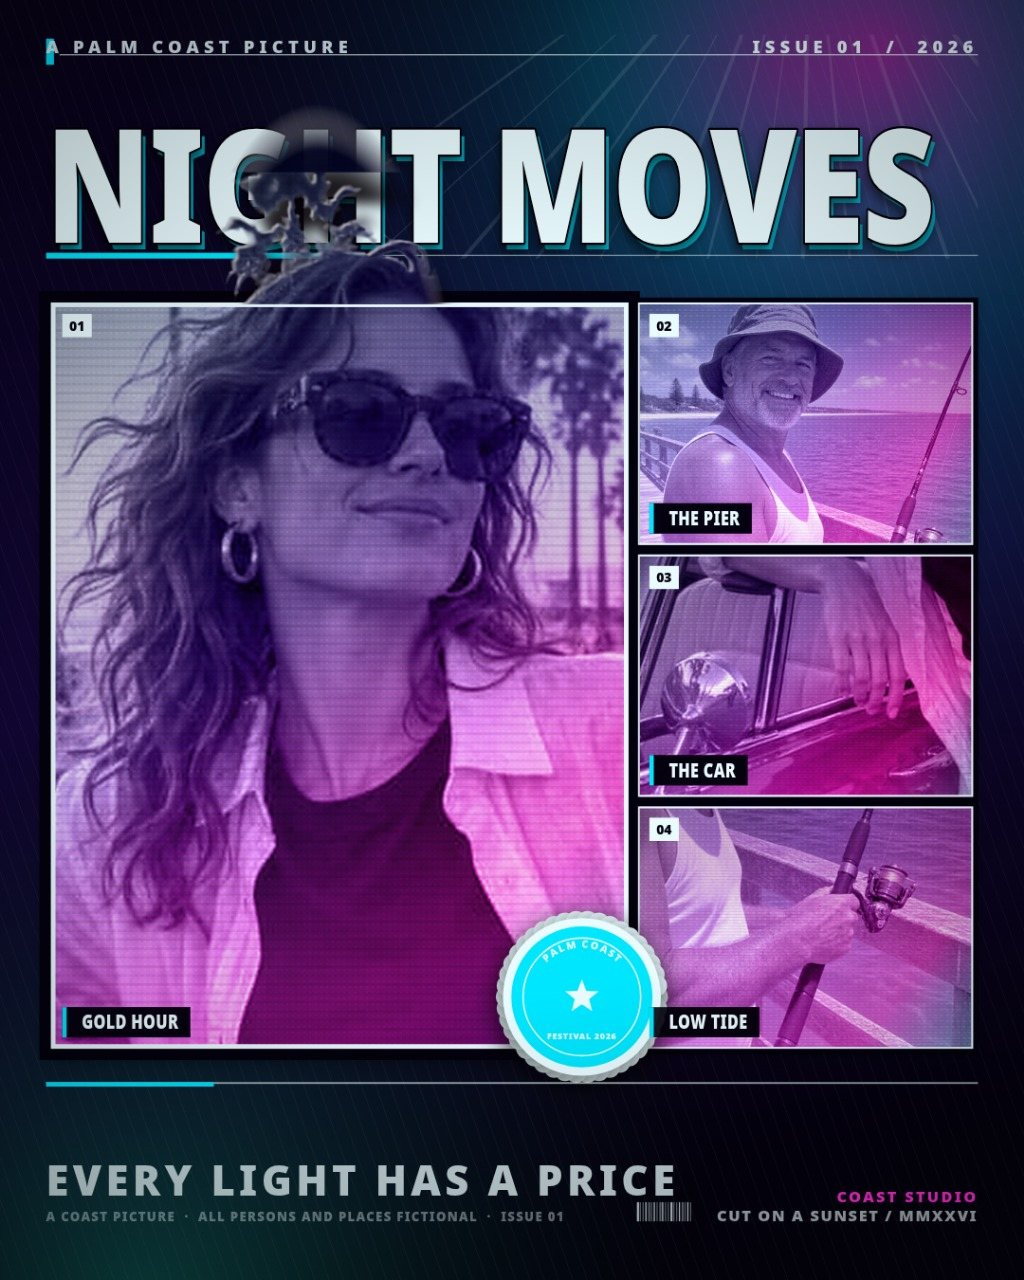
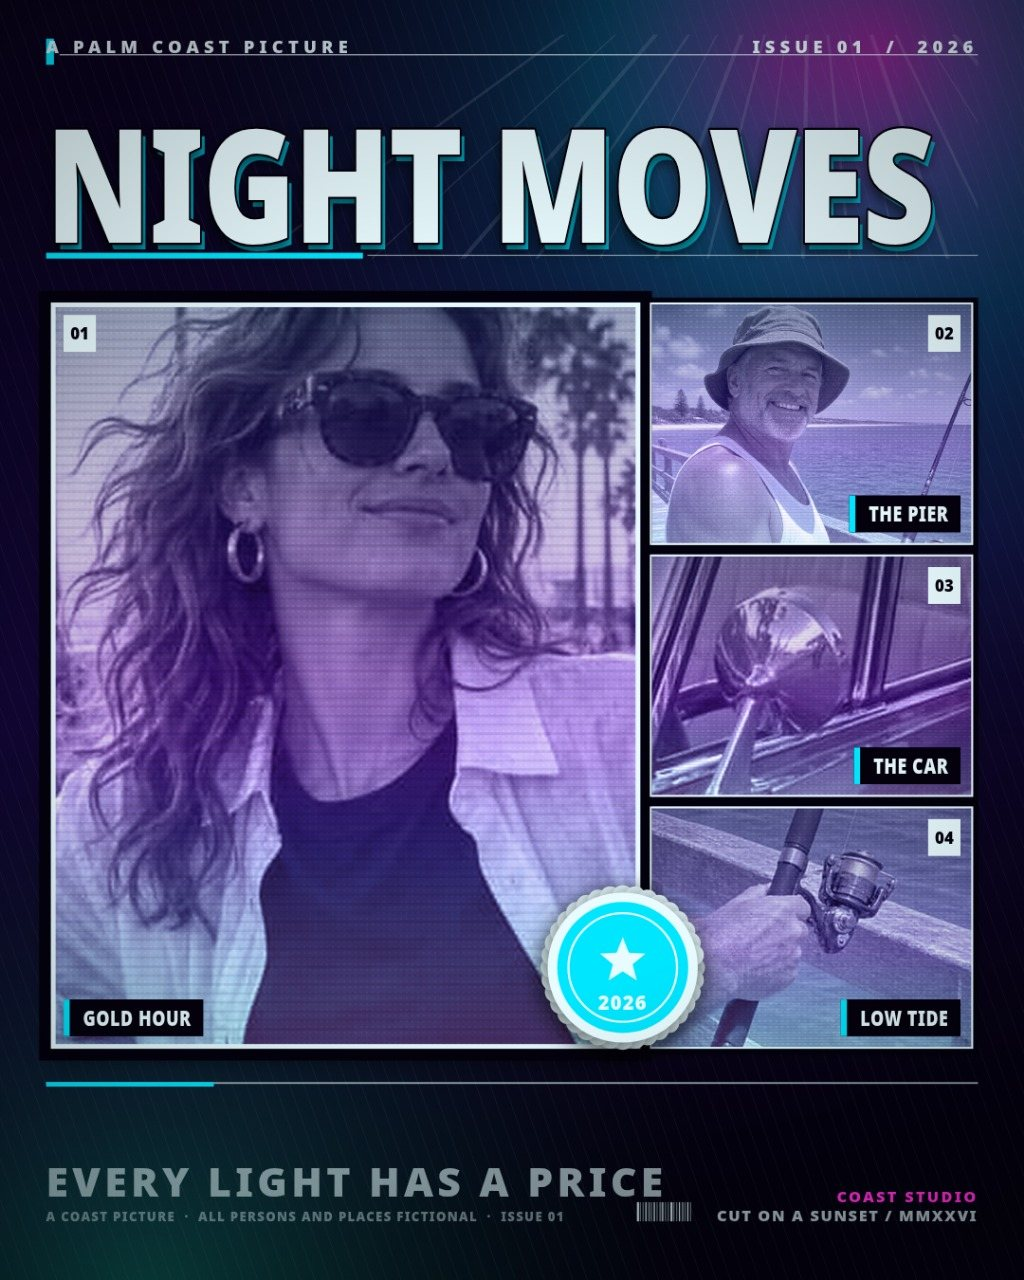
Make the cover read at judge scale
Six changes, all measured on a 768x480 downscale rather than at full size:

- drop the hero cut-out from over the wordmark: the type is unobstructed
- one grade: every panel gets the same vertical duotone ramp, and one
  color pass plus a very light sheet gradient re-asserts it over the grid
- the hero's right column is sized from its row height, so the three
  cells are near 4:3 instead of letterbox strips on a wide sheet (and
  near 4:3 on a portrait one too); crops re-picked to hold a whole head
  or a whole object
- the seal sits on the one long gutter at the hero's bottom-right corner,
  sized from the cell it sits between so it cannot be clipped, with a
  bold star and one short line instead of arc text
- labels: solid ink bars, one height, one inset, and a size capped by the
  panel so a narrow cell is not all chip; number tab moved to the same
  corner as its caption bar
- tagline demoted to one tracked line at 26% of the wordmark's cap height
  in muted cream, directly above the credits

frame-check: every panel holds a whole subject, no face is cut.
text-check: tagline at 25-26% of the wordmark cap on every shot.

diff --git a/app/src/render.js b/app/src/render.js
@@ -112,7 +112,18 @@ export function panelRects(state, W, H) {
     return { area, gutter: g, panels: cards, tilt: true };
   }
 
-  const panels = layout.cells.map(([cx, cy, cw, ch]) => ({
+  // The hero's right column is three panels stacked in one column, so their height is fixed by the grid and only
+  // their width is free. Taking the width from the height holds each of them near 4:3 instead of letting the
+  // sheet's own aspect squash them into letterbox strips on a wide post and tall slivers on a portrait one.
+  let cells = layout.cells;
+  if (state.layout === 'hero') {
+    const rowH = area.h / 3 - g;
+    const colW = clamp(rowH * (4 / 3) + g, area.w * 0.085, area.w * 0.45);
+    const f = colW / area.w;
+    cells = [[0, 0, 1 - f, 1], [1 - f, 0, f, 1 / 3], [1 - f, 1 / 3, f, 1 / 3], [1 - f, 2 / 3, f, 1 / 3]];
+  }
+
+  const panels = cells.map(([cx, cy, cw, ch]) => ({
     x: area.x + cx * area.w + g / 2,
     y: area.y + cy * area.h + g / 2,
     w: cw * area.w - g,
@@ -152,19 +163,20 @@ export function drawCover(canvas, state, opts = {}) {
   if (layout.tilt) paintTiltBackdrop(ctx, geo.area, state, pal, geo);
   drawPanels(ctx, geo, state, pal, Math.min(W, H));
 
-  // one warm wash over the whole grid, so the panels share a single grade
-  const wash = ctx.createLinearGradient(0, geo.area.y, 0, geo.area.y + geo.area.h);
-  wash.addColorStop(0, hexAlpha(pal.accent, 0.1));
-  wash.addColorStop(0.55, hexAlpha(pal.accent2, 0.06));
-  wash.addColorStop(1, hexAlpha(pal.accent2, 0.2));
-  const unify = ctx.createLinearGradient(geo.area.x, geo.area.y, geo.area.x + geo.area.w, geo.area.y + geo.area.h);
+  // One grade across the whole collage: the panels are all drawn with the same duotone ramp in paintPanel, and this
+  // pass re-asserts that ramp over the whole grid at once, so a cool panel and an amber script cannot sit side by
+  // side looking like two films. It goes on before the lettering, so the type stays crisp.
+  const unify = ctx.createLinearGradient(0, geo.area.y, 0, geo.area.y + geo.area.h);
   unify.addColorStop(0, pal.grade[0]);
-  unify.addColorStop(0.45, pal.grade[1]);
-  unify.addColorStop(0.8, pal.grade[2]);
+  unify.addColorStop(0.5, pal.grade[1]);
   unify.addColorStop(1, pal.grade[3]);
+  const wash = ctx.createLinearGradient(0, geo.area.y, 0, geo.area.y + geo.area.h);
+  wash.addColorStop(0, hexAlpha(pal.accent, 0.12));
+  wash.addColorStop(0.55, hexAlpha(pal.accent2, 0.06));
+  wash.addColorStop(1, hexAlpha(pal.accent2, 0.22));
   ctx.save();
   ctx.globalCompositeOperation = 'color';
-  ctx.globalAlpha = 0.24;
+  ctx.globalAlpha = 0.34;
   ctx.fillStyle = unify;
   ctx.fillRect(geo.area.x, geo.area.y, geo.area.w, geo.area.h);
   ctx.globalCompositeOperation = 'soft-light';
@@ -180,13 +192,26 @@ export function drawCover(canvas, state, opts = {}) {
   drawSeal(ctx, geo, state, pal, W, H);
   if (!layout.tilt) {
     for (let i = 0; i < geo.panels.length; i++) {
-      panelLettering(ctx, geo.panels[i], state.panels[i] || {}, i, pal, Math.min(W, H));
+      const corner = state.layout === 'hero' ? (i === 0 ? 'left' : 'right') : 'left';
+      panelLettering(ctx, geo.panels[i], state.panels[i] || {}, i, pal, Math.min(W, H), corner);
     }
   }
 
   const titleSize = drawHeader(ctx, header, state, pal, isWide);
-  drawHeroBust(ctx, geo, state, pal);
   drawFooter(ctx, footer, state, pal, isWide, titleSize);
+
+  // One light over the whole sheet, from the header through the grid to the footer, so the three bands sit in the
+  // same light instead of reading as pasted together. Very light: it must not grey the wordmark.
+  const sheet = ctx.createLinearGradient(0, 0, 0, H);
+  sheet.addColorStop(0, hexAlpha(pal.accent2, 0.07));
+  sheet.addColorStop(0.5, 'rgba(0,0,0,0)');
+  sheet.addColorStop(1, hexAlpha(pal.accent, 0.06));
+  ctx.save();
+  ctx.globalCompositeOperation = 'soft-light';
+  ctx.fillStyle = sheet;
+  ctx.fillRect(0, 0, W, H);
+  ctx.restore();
+
   filmGrain(ctx, W, H, state.seed || 7);
 
   // edge vignette ties the whole sheet together
@@ -303,7 +328,8 @@ function drawPanels(ctx, geo, state, pal, base) {
         panelFinish(ctx, rect, pal, i);
       });
       panelFrame(ctx, rect, pal);
-      panelLettering(ctx, rect, panel, i, pal, base);
+      const corner = state.layout === 'hero' ? (i === 0 ? 'left' : 'right') : 'left';
+      panelLettering(ctx, rect, panel, i, pal, base, corner);
     };
     if (rect.rot) {
       ctx.save();
@@ -367,11 +393,12 @@ function drawPhoto(ctx, img, rect, panel, pal, index) {
   ctx.drawImage(img, x, y, dw, dh);
   ctx.filter = 'none';
 
-  // duotone: hue and saturation from the palette, luminance from the photograph
-  const tone = ctx.createLinearGradient(rect.x, rect.y, rect.x + rect.w, rect.y + rect.h);
+  // Duotone: hue and saturation from the palette, luminance from the photograph. The ramp runs top-to-bottom and is
+  // identical in every panel, so the four cells read as one film — a diagonal ramp per panel gave each crop its own
+  // direction, and two panels ended up cool where the other two ended up amber.
+  const tone = ctx.createLinearGradient(0, rect.y, 0, rect.y + rect.h);
   tone.addColorStop(0, pal.grade[0]);
-  tone.addColorStop(0.42, pal.grade[1]);
-  tone.addColorStop(0.78, pal.grade[2]);
+  tone.addColorStop(0.6, pal.grade[1]);
   tone.addColorStop(1, pal.grade[3]);
   ctx.globalCompositeOperation = 'color';
   ctx.globalAlpha = 0.82;
@@ -397,14 +424,20 @@ function drawPhoto(ctx, img, rect, panel, pal, index) {
 
   // dodge the middle so the subject reads, burn the corners
   const light = ctx.createRadialGradient(
-    rect.x + rect.w * (0.5 + (index % 2 ? -0.12 : 0.12)), rect.y + rect.h * 0.42, 0,
+    rect.x + rect.w * 0.5, rect.y + rect.h * 0.44, 0,
     rect.x + rect.w * 0.5, rect.y + rect.h * 0.5, Math.max(rect.w, rect.h) * 0.72);
-  light.addColorStop(0, 'rgba(255,240,210,0.22)');
+  light.addColorStop(0, 'rgba(255,240,210,0.24)');
   light.addColorStop(0.6, 'rgba(0,0,0,0)');
-  light.addColorStop(1, 'rgba(0,0,0,0.5)');
+  light.addColorStop(1, 'rgba(0,0,0,0.42)');
   ctx.globalCompositeOperation = 'soft-light';
   ctx.globalAlpha = 1;
   ctx.fillStyle = light;
+  ctx.fillRect(rect.x, rect.y, rect.w, rect.h);
+
+  // lift the floor a touch: at thumbnail size a night shot that crushes to black is a hole in the sheet, not a photo
+  ctx.globalCompositeOperation = 'screen';
+  ctx.globalAlpha = 1;
+  ctx.fillStyle = 'rgba(30,18,40,0.6)';
   ctx.fillRect(rect.x, rect.y, rect.w, rect.h);
 
   ctx.restore();
@@ -452,38 +485,48 @@ function panelFrame(ctx, rect, pal) {
   ctx.restore();
 }
 
-function panelLettering(ctx, rect, panel, index, pal, base) {
-  const fs = clamp(base * 0.019, 11, 34);
-  const tabW = fs * 1.5, tabH = fs * 1.18;
+function panelLettering(ctx, rect, panel, index, pal, base, corner = 'right') {
+  // One label size for every panel, capped by the panel itself so a narrow cell is not all chip. Every label gets
+  // the same height and the same inset from its panel edge, and a solid fill: a translucent bar on a dark
+  // photograph is a grey smear at thumbnail size, not a label.
+  const fs = Math.min(clamp(base * 0.021, 11, 40), rect.w * 0.1);
+  const inset = fs * 0.6;
+  const boxH = fs * 1.7;
+  const tabW = fs * 1.5;
 
-  // number tab, top left, the same size on every panel
-  if (rect.w > tabW * 1.6 && rect.h > tabH * 1.8) {
+  // number tab, top corner on the same side as the caption bar, the same height and inset as it
+  if (rect.w > tabW + inset * 2 && rect.h > boxH * 1.9) {
+    const tx = corner === 'left' ? rect.x + inset : rect.x + rect.w - inset - tabW;
     ctx.fillStyle = pal.cream;
-    ctx.fillRect(rect.x + fs * 0.6, rect.y + fs * 0.6, tabW, tabH);
+    ctx.fillRect(tx, rect.y + inset, tabW, boxH);
     ctx.fillStyle = pal.ink;
-    ctx.font = `900 ${fs * 0.68}px ${FONT_FAMILY}`;
+    ctx.font = `900 ${fs * 0.74}px ${FONT_FAMILY}`;
     ctx.textAlign = 'center';
     ctx.textBaseline = 'middle';
-    ctx.fillText(String(index + 1).padStart(2, '0'), rect.x + fs * 0.6 + tabW / 2, rect.y + fs * 0.6 + tabH * 0.56);
+    ctx.fillText(String(index + 1).padStart(2, '0'), tx + tabW / 2, rect.y + inset + boxH * 0.55);
     ctx.textAlign = 'left';
     ctx.textBaseline = 'alphabetic';
   }
 
-  if (rect.w < fs * 8 || rect.h < fs * 4.2) return;
+  if (rect.w < fs * 7 || rect.h < fs * 3.6) return;
+
+  // caption bar: the panel's outer bottom corner, so it keeps clear of the seal on the column's near gutter
   const label = panel.label || PANEL_WORDS[index % PANEL_WORDS.length];
   ctx.font = `900 ${fs}px ${FONT_FAMILY}`;
-  ctx.letterSpacing = `${fs * 0.02}px`;
-  const tw = ctx.measureText(label).width * CONDENSE;
-  const padX = fs * 0.55, ph = fs * 1.55;
-  const px = rect.x + fs * 0.6;
-  const py = rect.y + rect.h - ph - fs * 0.6;
-  ctx.fillStyle = hexAlpha(pal.ink, 0.9);
-  ctx.fillRect(px, py, tw + padX * 2 + fs * 0.5, ph);
+  ctx.letterSpacing = `${fs * 0.03}px`;
+  const room = rect.w - inset * 2 - fs * 2.2;
+  const tw = Math.min(ctx.measureText(label).width * CONDENSE, room);
+  const padX = fs * 0.5;
+  const barW = tw + padX * 2 + fs * 0.45;
+  const px = corner === 'left' ? rect.x + inset : rect.x + rect.w - inset - barW;
+  const py = rect.y + rect.h - inset - boxH;
+  ctx.fillStyle = pal.ink;
+  ctx.fillRect(px, py, barW, boxH);
   ctx.fillStyle = pal.accent;
-  ctx.fillRect(px, py, fs * 0.22, ph);
+  ctx.fillRect(px, py, fs * 0.28, boxH);
   ctx.fillStyle = pal.cream;
   ctx.save();
-  ctx.translate(px + padX + fs * 0.45, py + ph * 0.73);
+  ctx.translate(px + padX + fs * 0.4, py + boxH * 0.72);
   ctx.scale(CONDENSE, 1);
   ctx.fillText(label, 0, 0);
   ctx.restore();
@@ -661,7 +704,7 @@ function captionLayout(ctx, caption, room, titleSize, footerH) {
   const legalRow = Math.max(11, footerH * 0.17);
   const padTop = footerH * 0.13;
   const blockH = Math.max(footerH * 0.3, footerH - legalRow - padTop);
-  const target = Math.min(titleSize * 0.26, blockH / 1.16, footerH * 0.42);
+  const target = Math.min(titleSize * 0.255, blockH / 1.16, footerH * 0.42);
 
   // Tracking is decoration, size is hierarchy: tighten the tracking to hold one line before giving up any height.
   for (const tracking of [0.14, 0.1, 0.06, 0.03]) {
@@ -722,7 +765,7 @@ function drawFooter(ctx, footer, state, pal, isWide, title) {
   ctx.save();
   ctx.font = `700 ${capSize}px ${FONT_FAMILY}`;
   ctx.letterSpacing = `${capSize * led.tracking}px`;
-  ctx.fillStyle = hexAlpha(pal.cream, 0.84);
+  ctx.fillStyle = hexAlpha(pal.cream, 0.62);
   for (let i = 0; i < lines.length; i++) {
     ctx.fillText(lines[i], footer.x, capBaseline - (lines.length - 1 - i) * lineH);
   }
@@ -1066,26 +1109,44 @@ function drawHeroBust(ctx, geo, state, pal) {
 }
 
 function drawSeal(ctx, geo, state, pal, W, H) {
-  const r = Math.min(W, H) * 0.082;
-  let fx = 0.5, fy = 0.5;
-  // The seal is a sticker on the grid, never on a subject: on the hero sheet it sits on the hero's lower-right
-  // corner, on the six-up sheet on the central gutter where it covers four empty corners rather than a panel's
-  // subject. On the four-up sheet the centre is the only seam that has room for it.
-  if (state.layout === 'hero') { fx = 0.575; fy = 0.925; }
-  if (state.layout === 'six') { fx = 0.5; fy = 0.5; }
-  const cx = geo.area.x + geo.area.w * fx;
-  const cy = geo.area.y + geo.area.h * fy;
+  // The seal is a sticker on exactly one seam, and it is sized from the cells it sits between rather than from the
+  // sheet, so it can never be clipped by a cell edge: on the hero sheet that seam is the long gutter between the
+  // hero and the right column, on the tiled layouts the gutter beside the top-right cell. Every caption bar is in
+  // its panel's far bottom corner, so the seal keeps a clear chip's width from all of them.
+  const g = geo.gutter;
+  const min = Math.min(W, H);
+  let anchor;
+  if (state.layout === 'hero' && geo.panels.length > 3) {
+    // Bottom-right corner of the hero band, straddling the one long gutter: it covers the hero's empty sunset
+    // corner and the dark bottom-left of the last thumbnail, never a face and never a caption bar.
+    const p = geo.panels[3];
+    const r = Math.min(p.h * 0.47, min * 0.078);
+    anchor = { cx: p.x - g / 2 - r * 0.1, cy: p.y + p.h - r * 1.02, r };
+  } else if (state.layout === 'six' && geo.panels.length > 1) {
+    // The six-up grid's one full-width seam is the horizontal gutter through the middle: the seal sits on it,
+    // right of the label column, so it clears every tab and every caption bar.
+    const r = Math.min(geo.panels[1].h * 0.22, min * 0.082);
+    anchor = { cx: geo.area.x + geo.area.w / 2 + r * 1.15, cy: geo.area.y + geo.area.h / 2, r };
+  } else if (geo.panels.length > 1) {
+    const p = geo.panels[1];
+    anchor = { cx: p.x - g / 2, cy: p.y + p.h * 0.48, r: Math.min(p.h * 0.3, min * 0.082) };
+  } else {
+    anchor = { cx: geo.area.x + geo.area.w / 2, cy: geo.area.y + geo.area.h / 2, r: min * 0.08 };
+  }
+  const r = anchor.r;
+  const cx = anchor.cx - r * 0.18;
+  const cy = anchor.cy;
 
   ctx.save();
-  ctx.shadowColor = 'rgba(0,0,0,0.45)';
-  ctx.shadowBlur = r * 0.3;
-  ctx.shadowOffsetY = r * 0.08;
+  ctx.shadowColor = 'rgba(0,0,0,0.5)';
+  ctx.shadowBlur = r * 0.28;
+  ctx.shadowOffsetY = r * 0.07;
   ctx.fillStyle = pal.cream;
-  const scallops = 42;
+  const scallops = 36;
   for (let i = 0; i < scallops; i++) {
     const a = (i / scallops) * Math.PI * 2;
     ctx.beginPath();
-    ctx.arc(cx + Math.cos(a) * r * 0.9, cy + Math.sin(a) * r * 0.9, r * 0.125, 0, Math.PI * 2);
+    ctx.arc(cx + Math.cos(a) * r * 0.9, cy + Math.sin(a) * r * 0.9, r * 0.13, 0, Math.PI * 2);
     ctx.fill();
   }
   ctx.beginPath();
@@ -1095,39 +1156,38 @@ function drawSeal(ctx, geo, state, pal, W, H) {
 
   ctx.fillStyle = pal.accent;
   ctx.beginPath();
-  ctx.arc(cx, cy, r * 0.84, 0, Math.PI * 2);
+  ctx.arc(cx, cy, r * 0.82, 0, Math.PI * 2);
   ctx.fill();
 
   ctx.strokeStyle = pal.cream;
-  ctx.lineWidth = r * 0.018;
+  ctx.lineWidth = Math.max(2, r * 0.028);
   ctx.beginPath();
-  ctx.arc(cx, cy, r * 0.7, 0, Math.PI * 2);
+  ctx.arc(cx, cy, r * 0.68, 0, Math.PI * 2);
   ctx.stroke();
 
-  drawArcText(ctx, 'PALM COAST', cx, cy, r * 0.62, -Math.PI * 0.76, -Math.PI * 0.24, r * 0.12, pal.cream);
-
-  // star
+  // One bold star and one short line, no arc of 6 px letters: at judge scale an arc reads as a grey ring, a star
+  // still reads as a star.
   ctx.fillStyle = pal.cream;
   ctx.beginPath();
   for (let i = 0; i < 10; i++) {
     const a = -Math.PI / 2 + (i * Math.PI) / 5;
-    const rad = i % 2 ? r * 0.09 : r * 0.21;
+    const rad = i % 2 ? r * 0.13 : r * 0.3;
     const px = cx + Math.cos(a) * rad;
-    const py = cy + Math.sin(a) * rad;
+    const py = cy - r * 0.08 + Math.sin(a) * rad;
     if (i === 0) ctx.moveTo(px, py);
     else ctx.lineTo(px, py);
   }
   ctx.closePath();
   ctx.fill();
 
-  const line = `FESTIVAL ${state.sealYear || 2026}`;
-  const fs = r * 0.1;
+  const line = String(state.sealYear || 2026);
+  const fs = r * 0.24;
   ctx.font = `900 ${fs}px ${FONT_FAMILY}`;
-  ctx.letterSpacing = `${fs * 0.08}px`;
+  ctx.letterSpacing = `${fs * 0.06}px`;
   ctx.textAlign = 'center';
   ctx.textBaseline = 'middle';
   ctx.fillStyle = pal.cream;
-  ctx.fillText(line, cx, cy + r * 0.47);
+  ctx.fillText(line, cx, cy + r * 0.46);
   ctx.letterSpacing = '0px';
   ctx.textAlign = 'left';
   ctx.textBaseline = 'alphabetic';

diff --git a/app/src/state.js b/app/src/state.js
@@ -96,23 +96,21 @@ export const PHOTO_FRAMES = {
  * was framed for. A panel holding a different photo falls back to that photo's own frame above.
  */
 export const LAYOUT_FRAMES = {
-  // The hero panel is 2.2:1 on the landscape sheet and the three strips are 4.5:1. No strip that wide can hold a
-  // whole car element — The Car's mirror needs an aspect the strip cannot give it, and cropped to 4.5:1 the
-  // chrome reads as chrome, not as a car. So the right column is the rest of the crew, one nameable subject per
-  // strip: a fisherman's face, a second woman's face, a reel in a hand. The festival seal sits on the right
-  // column's left edge at mid-height, so each strip's subject is kept clear of it.
+  // The hero panel is the big band; the right column is three near-4:3 cells, so each one can hold a whole head or
+  // a whole object rather than a slice of one. One nameable subject per cell: her face, the fisherman's head, the
+  // reel in his fist, the chrome mirror on the red door.
   hero: {
     wide: [
-      { photo: 'gold-hour', cx: 0.5, cy: 0.462, zoom: 1 },
-      { photo: 'pier', cx: 0.42, cy: 0.255, zoom: 1 },
-      { photo: 'low-tide', cx: 0.83, cy: 0.385, zoom: 1.5 },
-      { photo: 'the-car', cx: 0.5, cy: 0.72, zoom: 1 },
+      { photo: 'gold-hour', cx: 0.5, cy: 0.3, zoom: 1 },
+      { photo: 'pier', cx: 0.5, cy: 0.29, zoom: 1.3 },
+      { photo: 'low-tide', cx: 0.78, cy: 0.45, zoom: 1.5 },
+      { photo: 'the-car', cx: 0.21, cy: 0.57, zoom: 2.4 },
     ],
     portrait: [
       { photo: 'gold-hour', cx: 0.52, cy: 0.68, zoom: 1.2 },
-      { photo: 'pier', cx: 0.5, cy: 0.36, zoom: 1.1 },
-      { photo: 'the-car', cx: 0.45, cy: 0.5, zoom: 1.25 },
-      { photo: 'low-tide', cx: 0.68, cy: 0.5, zoom: 1 },
+      { photo: 'pier', cx: 0.5, cy: 0.33, zoom: 1.15 },
+      { photo: 'the-car', cx: 0.21, cy: 0.57, zoom: 1.9 },
+      { photo: 'low-tide', cx: 0.78, cy: 0.45, zoom: 1.5 },
     ],
     square: [
       { photo: 'gold-hour', cx: 0.5, cy: 0.42, zoom: 1 },
